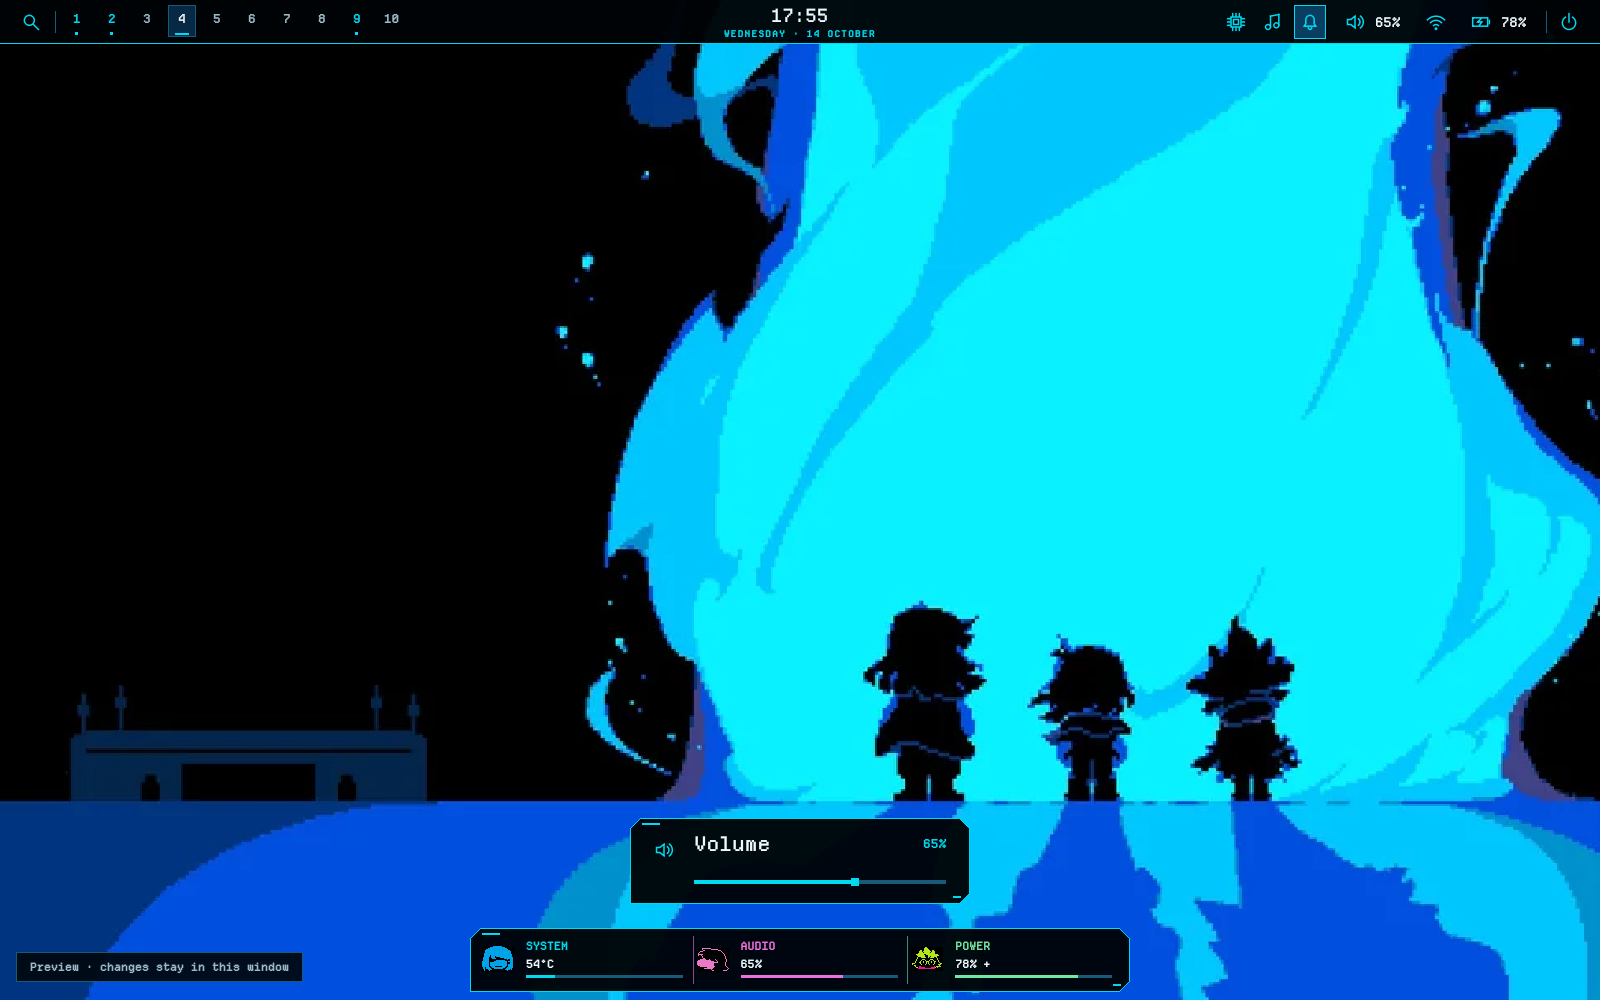
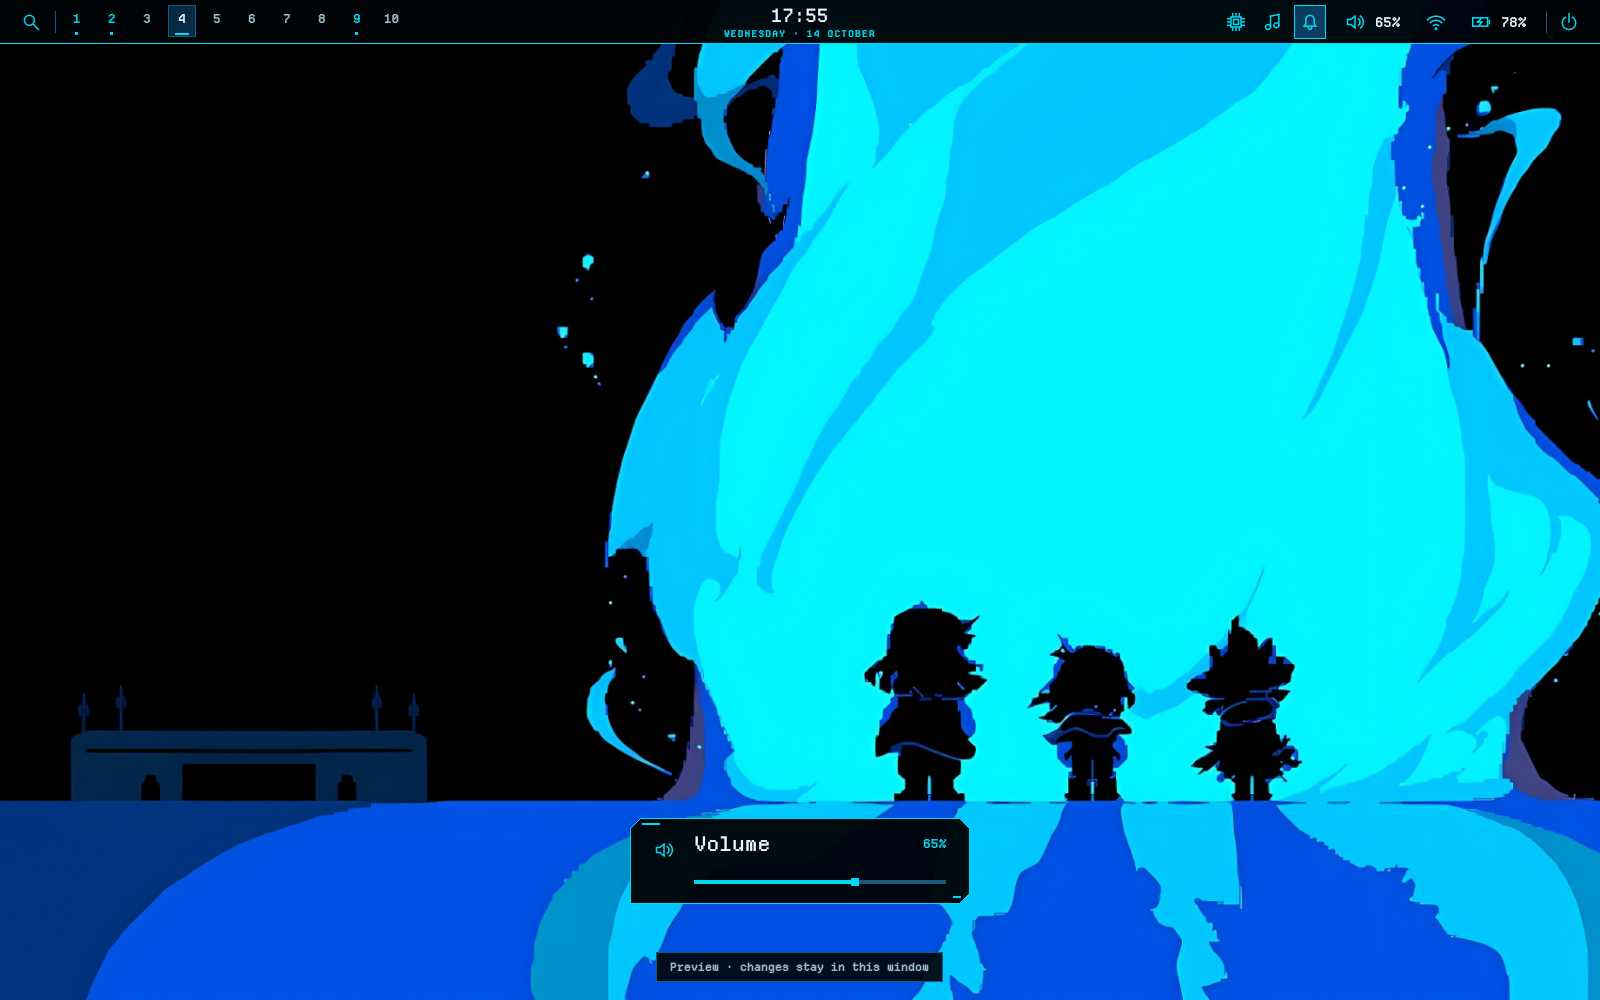
Move Deltarune controls right remove the bottom strip and replace wallpaper

diff --git a/themes/deltarune/files/style/shell/ui/PartyStrip.qml b/themes/deltarune/files/style/shell/ui/PartyStrip.qml
@@ -1,50 +1,7 @@
 import QtQuick
-import QtQuick.Controls
-OrnamentFrame {
-    id:root
-    objectName:"partyStrip"
+// Optional presentation surface. The baseline theme does not show a second bar.
+Item {
     required property var backend
     required property var uiState
     property string screenToken:""
-    readonly property var cpu:backend.hardware || ({})
-    readonly property var cells:[
-        {name:"SYSTEM",portrait:Theme.kris,ink:Theme.brass,panel:"hardware",
-         value:typeof cpu.cpuTemp==="number" && isFinite(cpu.cpuTemp) ? Math.round(cpu.cpuTemp)+"°C" : "TEMP —",
-         level:typeof cpu.cpuUsage==="number" ? cpu.cpuUsage : 0},
-        {name:"AUDIO",portrait:Theme.susie,ink:Theme.partyPink,panel:"controls",
-         value:!backend.audioAvailable ? "OFFLINE" : backend.muted ? "MUTED" : backend.volume+"%",
-         level:backend.audioAvailable && !backend.muted ? backend.volume : 0},
-        {name:"POWER",portrait:Theme.ralsei,ink:Theme.partyGreen,panel:"controls",
-         value:backend.battery<0 ? "AC" : backend.battery+"%"+(backend.batteryCharging ? " +" : ""),
-         level:backend.battery<0 ? 0 : backend.battery}
-    ]
-    Row {
-        anchors.fill:parent;anchors.margins:8
-        Repeater {
-            model:root.cells
-            delegate:AbstractButton {
-                id:cell
-                required property var modelData
-                required property int index
-                objectName:"partyCell-"+index
-                width:(root.width-16)/3;height:root.height-16
-                hoverEnabled:true;activeFocusOnTab:true
-                Accessible.name:modelData.name+" "+modelData.value
-                background:Rectangle {color:cell.hovered || cell.activeFocus ? Theme.raised : "transparent"}
-                contentItem:Item {
-                    Image {x:4;anchors.verticalCenter:parent.verticalCenter;width:32;height:32;smooth:false;fillMode:Image.PreserveAspectFit;source:cell.modelData.portrait;visible:cell.width>=150}
-                    Column {
-                        x:cell.width>=150 ? 48 : 7;y:3;width:parent.width-x-10;spacing:4
-                        Text {width:parent.width;text:cell.modelData.name;color:cell.modelData.ink;font.family:Theme.bodyFont;font.pixelSize:Theme.fontSize(11);elide:Text.ElideRight}
-                        Text {objectName:"partyValue-"+cell.index;width:parent.width;text:cell.modelData.value;color:Theme.ink;font.family:Theme.bodyFont;font.pixelSize:Theme.fontSize(11);elide:Text.ElideRight}
-                        Rectangle {width:parent.width;height:3;color:Theme.line
-                            Rectangle {width:parent.width*Math.max(0,Math.min(100,cell.modelData.level))/100;height:3;color:cell.modelData.ink}
-                        }
-                    }
-                    Rectangle {visible:cell.index>0;width:1;height:parent.height;x:0;color:cell.modelData.ink;opacity:.6}
-                }
-                onClicked:root.uiState.toggle(modelData.panel,root.screenToken)
-            }
-        }
-    }
 }

diff --git a/themes/deltarune/files/style/shell/ui/Overlay.qml b/themes/deltarune/files/style/shell/ui/Overlay.qml
@@ -13,7 +13,7 @@ FocusScope {
         readonly property bool centered:SurfaceLayout.panelCentered(uiState.activePanel,Theme.preferences.centerPanels)
         width:SurfaceLayout.panelWidth(uiState.activePanel,root.width)
         height:SurfaceLayout.panelHeight(uiState.activePanel,root.height,uiState.confirmation,Theme.fontScale)
-        x:centered ? (root.width-width)/2 : SurfaceLayout.panelSideMargin
+        x:centered ? (root.width-width)/2 : uiState.activePanel==="controls" ? root.width-width-SurfaceLayout.panelSideMargin : SurfaceLayout.panelSideMargin
         y:centered ? (root.height-height)/2 : SurfaceLayout.panelTop
         MouseArea { anchors.fill:parent }
         Loader {

diff --git a/themes/deltarune/files/style/shell/ui/Theme.qml b/themes/deltarune/files/style/shell/ui/Theme.qml
@@ -3,7 +3,7 @@ import QtQuick
 import "../logic/Preferences.js" as Preferences
 QtObject {
     property var preferences:Preferences.defaults()
-    readonly property bool partyStripEnabled:true
+    readonly property bool partyStripEnabled:false
     readonly property real fontScale:preferences.fontScale
     readonly property bool reduceMotion:preferences.reduceMotion
     function fontSize(pixels) {return Math.max(9,Math.round(pixels*fontScale));}

diff --git a/checks/test_deltarune.py b/checks/test_deltarune.py
@@ -1,4 +1,4 @@
-"""Run the existing interaction contract against a staged skin, plus its optional strip.
+"""Run the existing interaction contract against a staged skin, plus the current panel/wallpaper revisions.
 
 Qt offscreen only. Does not install, run QuickShell, or contact the user's session.
 """
@@ -14,33 +14,37 @@ import theme_preview
 import test_preferences_ui as qt
 
 
-class PartyStripTests(qt.PreferenceUiTests):
-    def setUp(self):
-        super().setUp()
-        self.js('uiState.close()')
+class DeltaruneRevisionTests(qt.PreferenceUiTests):
+    def test_controls_right_launcher_left_and_center_preference_preserved(self):
+        self.change('reduceMotion', True)
+        self.change('centerPanels', False)
+        for width,height in [(1600,1000),(900,600),(640,480)]:
+            self.view.resize(width,height)
+            for panel in ['launcher','controls']:
+                self.js('uiState.close();uiState.toggle("'+panel+'","preview")')
+                qt.QTest.qWait(20)
+                frame=qt.visual_child(self.root,'activePanelFrame')
+                expected=width-frame.width()-16 if panel=='controls' else 16
+                self.assertAlmostEqual(frame.x(),expected)
+                self.assertGreaterEqual(frame.x(),0)
+                self.assertLessEqual(frame.x()+frame.width(),width)
+        self.change('centerPanels', True)
+        qt.QTest.qWait(20)
+        self.assertAlmostEqual(frame.x(),(self.view.width()-frame.width())/2)
 
-    def test_live_values_missing_sensors_mute_and_charging(self):
-        self.js('backend.hardware={};backend.audioAvailable=false;backend.battery=-1')
-        qt.QTest.qWait(10)
-        for index, value in enumerate(['TEMP —', 'OFFLINE', 'AC']):
-            self.assertEqual(qt.visual_child(self.root, 'partyValue-'+str(index)).property('text'), value)
-        self.js('backend.hardware={cpuTemp:0,cpuUsage:0};backend.audioAvailable=true;backend.muted=true;backend.battery=42;backend.batteryCharging=true')
-        qt.QTest.qWait(10)
-        for index, value in enumerate(['0°C', 'MUTED', '42% +']):
-            self.assertEqual(qt.visual_child(self.root, 'partyValue-'+str(index)).property('text'), value)
-        self.js('backend.hardware={cpuTemp:null};backend.batteryCharging=false;backend.muted=false;backend.volume=73')
-        qt.QTest.qWait(10)
-        for index, value in enumerate(['TEMP —', '73%', '42%']):
-            self.assertEqual(qt.visual_child(self.root, 'partyValue-'+str(index)).property('text'), value)
-
-    def test_party_buttons_toggle_existing_panels_and_font_loads(self):
-        self.click('partyCell-0'); self.assertEqual(self.js('uiState.activePanel'), 'hardware')
-        self.js('uiState.close()')
-        self.click('partyCell-1'); self.assertEqual(self.js('uiState.activePanel'), 'controls')
-        panel=self.root.findChild(qt.QObject,'activePanelFrame')
-        self.assertEqual(qt.evaluate(panel,'Theme.loadedFont.status'),1)
-        self.assertIn('Departure',qt.evaluate(panel,'Theme.bodyFont'))
-
+    def test_bottom_strip_removed_font_and_wallpaper_preserved(self):
+        from PySide6.QtGui import QImage
+        self.js('uiState.close();uiState.toggle("launcher","preview")')
+        qt.QTest.qWait(30)
+        self.assertIsNone(qt.visual_child(self.root,'partyStrip'))
+        frame=qt.visual_child(self.root,'activePanelFrame')
+        self.assertFalse(qt.evaluate(frame,'Theme.partyStripEnabled'))
+        self.assertEqual(qt.evaluate(frame,'Theme.loadedFont.status'),1)
+        self.assertIn('Departure',qt.evaluate(frame,'Theme.bodyFont'))
+        source=QImage(str(ROOT/'themes/deltarune/wallpaper-source.jpeg'))
+        wallpaper=QImage(str(qt.ROOT/'payload/style/wallpaper.png'))
+        self.assertEqual((wallpaper.width(),wallpaper.height()),(2048,1151))
+        self.assertEqual(source.convertToFormat(QImage.Format_RGBA8888),wallpaper.convertToFormat(QImage.Format_RGBA8888))
 
 
 def main():
@@ -59,9 +63,9 @@ def main():
             result=unittest.TextTestRunner(verbosity=1).run(suite);passed=passed and result.wasSuccessful()
         qt.qInstallMessageHandler(lambda kind,context,message:qt.WARNINGS.append(message))
         # Load only new checks; inherited settings cases have already run above.
-        suite=unittest.TestSuite(PartyStripTests(name) for name in [
-            'test_live_values_missing_sensors_mute_and_charging',
-            'test_party_buttons_toggle_existing_panels_and_font_loads'])
+        suite=unittest.TestSuite(DeltaruneRevisionTests(name) for name in [
+            'test_controls_right_launcher_left_and_center_preference_preserved',
+            'test_bottom_strip_removed_font_and_wallpaper_preserved'])
         result=unittest.TextTestRunner(verbosity=1).run(suite);passed=passed and result.wasSuccessful()
     return 0 if passed else 1
 

diff --git a/docs/DELTARUNE.md b/docs/DELTARUNE.md
@@ -1,4 +1,4 @@
-# Deltarune — ilk kullanım denemesi (2.8.0)
+# Deltarune — kullanım denemesi (paket 0.1.1)
 
 18 Ekim 2026: kullanıcının seçtiği arka plan ve onayladığı son referans temel
 alındı. Bu, son kabul edilmiş ikinci tema değil; kullanıp revize edilecek sürüm.
@@ -47,12 +47,11 @@ bash theme.sh check plague-tale && bash theme.sh apply plague-tale
 
 ## Bu denemede neler var?
 
-- Seçilen görselin piksel eşitliği korunmuş PNG kopyası; yeniden çizim yok.
+- Kullanıcının yeni images_upscaled.jpeg görseli; 2048×1151 tam boyutlu PNG.
 - Siyah/camgöbeği kesik köşeler, Departure Mono fontu, gerçek oyun menü portreleri.
 - Mevcut bütün shell menüleri, Alt+Tab, bildirimler, ayarlar ve sürüklenebilir OSD.
-- Solda launcher/yan paneller. Merkez panel tercihin açıksa öncelik ona aittir.
-- Alt şerit: CPU sıcaklığı/yük, ses/mute, pil/şarj. SYSTEM donanımı, AUDIO/POWER
-  kontrol panelini açar. Ekran başına 80 mantıksal piksel alan ayırır.
+- Arama önceki sol konumunda; kontrol menüsü sağda. Merkez panel tercihin
+  açıksa öncelik ona aittir. Alt parti şeridi ve ayırdığı alan kaldırıldı.
 - Kitty renkleri ve Hyprlock medya renk/düğmeleri. Terminal başlangıcı değiştirilmez.
 
 Super+R tekrar basınca kapanır. Super+M oturum menüsü, Super+T donanım,
@@ -62,12 +61,12 @@ Bu ilk paket SDDM, Dolphin, Spotify veya terminal madalyonuna Deltarune adaptör
 kurmaz. Hyprlock parola/saat sunumu da önceki ortak kurulumdadır. Bu alanlar
 ikinci temanın sonraki revizyonları; bunların tamamlandığı iddia edilmez.
 
-Sensör okuma bu temada iki saniyede bir devam eder; mevcut uyuyan GPU koruması
-korunur. Sensör/pil/aygıt yoksa uydurma değer yerine TEMP — / AC / OFFLINE görünür.
+Donanım sensörleri yalnız Super+T paneli açıkken iki saniyede bir okunur;
+mevcut uyuyan GPU koruması korunur. Veriler üst bardan veya ilgili panelden izlenir.
 
 ## Önizlemeler ve sınır
 
-[Medya](../previews/deltarune/media.png) · [OSD](../previews/deltarune/osd.png) ·
+[Kontrol menüsü](../previews/deltarune/controls.png) · [Medya](../previews/deltarune/media.png) · [OSD](../previews/deltarune/osd.png) ·
 [Alt+Tab](../previews/deltarune/switcher.png). Bunlar Qt 6.10.2 DemoContext
 render'larıdır; gerçek Wayland, Steam, PAM, Spotify veya fiziksel sensör kabulü
 değildir. Fotoğraflı tema kartı için gerçek render metadata'ya kaydedildi;
@@ -87,3 +86,14 @@ bash theme.sh check deltarune && bash theme.sh apply deltarune
 Başarılı source update'i tekrarlamak veya restore çalıştırmak gerekmez. Gerçek
 sürüm okunamazsa hata artık elde edilen çıktıyı da gösterir. Kullanıcının bu
 logdaki kesin QuickShell sürümü bilinmiyor; yeni sürümde native kabul bekliyor.
+
+
+### Aktif Deltarune'u 0.1.1'e güncellemek
+
+```bash
+git pull --ff-only
+bash theme.sh check deltarune && bash theme.sh apply deltarune
+```
+
+Aynı ABI korunur; source update veya restore gerekmez. Wallpaper içerik hash'li
+cache yolundan değişir. Önceki görünüme normal theme rollback ile dönülebilir.

diff --git a/STATUS.md b/STATUS.md
@@ -1,6 +1,6 @@
 # Güncel durum
 
-Son inceleme: **2026-10-18**. Kaynak taban: **2.8.0 — ilk Deltarune denemesi**.
+Son inceleme: **2026-10-18**. Kaynak taban: **2.8.0 / Deltarune 0.1.1**.
 Aşama: **Plague Tale ürün/kullanım kapanışı onaylandı; Deltarune ilk paket uygulandı / hedef oturum kabulü bekliyor**. Genel yayın/lisans ve geniş dağıtım matrisi ayrı açık iş olarak kalır.
 Bu kayıt uygulamaları kullanıcının cihazında çalıştırmış gibi yorumlanamaz.
 
@@ -22,7 +22,29 @@ seçicinin uygulanması veya ikinci temanın başlaması değildir. O mesaj nati
 aşağıdaki daha yeni kullanıcı onayı bu bekleme durumunun yerine geçer. Yalnız gereksinim belgeleri güncellendi;
 yerel Markdown dosya bağlantıları ve `git diff --check` geçti, runtime değişmedi.
 
-## 2.8.0 — Deltarune ilk deneme
+## Deltarune 0.1.1 — ilk kullanıcı revizyonu
+
+18 Ekim 14:50 Europe/Riga: kullanıcı canlı Deltarune masaüstü ekran görüntüsü
+paylaştı ve üç revizyon istedi. Bu, paketin hedef oturumda açıldığını gösterir;
+bütün işlevlerin veya yeni düzenin son kabulü değildir.
+
+- Kontrol menüsü sağda; arama önceki sol konumunda. Mevcut merkez panel tercihi
+  açıkça değiştirilmez; açıksa merkez önceliği korunur.
+- Alttaki parti şeridi ve onun 80 piksel exclusive zone'u kaldırıldı. Ortak
+  opsiyonel pencere sözleşmesi yerinde; Deltarune view'ı boş ve flag false.
+  Sürekli sensör izleme de kapanır, yalnız Super+T donanım paneli açıkken sürer.
+- Wallpaper, shell ve lock medya fallback'ı kullanıcının **images_upscaled.jpeg**
+  dosyasından 2048×1151 PNG'ye dönüştürüldü. JPEG'in çözümlenen pikselleriyle
+  eşitlik denetlendi; resize veya ikinci üretim yapılmadı. Kaynak JPEG saklandı.
+  Görüntü cache'i içeriğe bağlı yeni yoldan yenilenir.
+
+Ortak shell/ABI değişmedi; aktif Deltarune üstüne `git pull --ff-only`, sonra
+`theme.sh check/apply deltarune` yeterli. Source update/restore gerekmez.
+42 Qt + 31 core test geçti; yeni iki Qt kontrolü sağ/sol konum, merkez tercih,
+şeridin yokluğu ve wallpaper/font yüklemesini doğrular. Yeni native revizyonun
+kullanıcı kontrolü bekleniyor. [Rehber](docs/DELTARUNE.md).
+
+## 2.8.0 — Deltarune ilk deneme (önceki kayıt)
 
 18 Ekim 14:38 kullanıcı logu: kaynak update/check ve QML kontrolü başarılı;
 `theme.sh check deltarune` aşırı dar QuickShell sürüm koşulunda durdu. Tema apply

diff --git a/docs/FEATURE_CONTRACT.md b/docs/FEATURE_CONTRACT.md
@@ -152,14 +152,13 @@ bu, bir temanın özelliği unuttuğu anlamına gelmez.
 ## Deltarune — 18 Ekim 2026
 
 - Aynı Super+R/M/T/B/Q/E/L ve Alt+Tab eylemleri, toggle ve hesaplama anlamı sürer.
-- Ek parti durum şeridi SYSTEM → mevcut donanım, AUDIO/POWER → mevcut kontrol
-  panelini açar. Yeni global kısayol veya iş komutu tanımlamaz.
-- Sıcaklık yoksa TEMP —, ses aygıtı yoksa OFFLINE, pil yoksa AC; sahte değer yoktur.
-  Sessiz/şarj durumu metinle de anlaşılır. Şerit üç hücreyi dar genişlikte de korur.
+- 18 Ekim kullanıcı revizyonu: alt parti şeridi yoktur ve altta alan ayırmaz.
+  Donanım/ses/pil özellikleri Super+T ve mevcut üst bar/kontrol menüsünde korunur.
+- Kontrol menüsü sağda, arama önceki sol konumundadır. Merkez panel kullanıcı
+  tercihi açıksa önceliği korunur; kayıtlı tercih dosyası değiştirilmez.
+- Wallpaper yeni kullanıcı JPEG'inin tam 2048×1151 boyutlu kayıpsız PNG kopyasıdır.
 - Tema font/renk/kenar/yerleşim sağlar; preferences/kısayollar/bildirim durumu
-  ortak kalır. Kullanıcının merkez panel tercihi varsayılan sol yerleşimin önündedir.
-- Native alt şerit Top katmanında 80 mantıksal piksel ayırır; kullanıcı ekran
-  çözünürlüğü/ölçeği/VRR veya GPU ayarı yeniden yazılmaz.
+  ortak kalır. Kullanıcının çözünürlük/ölçek/VRR/GPU ayarı yeniden yazılmaz.
 
 - 18 Ekim sürüm gate düzeltmesi: kurucu ve tema geçişi aynı minimum QuickShell
   0.3.1 kuralını kullanır. Kaynak referans sürümü tam eşitlik kilidi değildir;

diff --git a/ROADMAP.md b/ROADMAP.md
@@ -181,11 +181,12 @@ bir sonraki temanın bunlardan biri olacağı kararlaştırılmadı.
 ## M6 — Deltarune ilk deneme — uygulandı / kullanıcı kabulü bekliyor
 
 18 Ekim kullanıcı ikinci temanın geliştirilmesini başlattı. Seçilen wallpaper,
-siyah/camgöbeği piksel dil, üç karakter portreleri ve gerçek değerli parti şeridi
-ilk pakette var. Ortak launcher/hesaplama/Alt+Tab/tray/OSD/ayar sözleşmesi korunur.
+siyah/camgöbeği piksel dil ve karakter portreleri ilk pakette var. 18 Ekim ilk
+revizyonda kullanıcı parti şeridini kaldırdı; kontrol menüsü sağa taşındı ve
+yeni images_upscaled.jpeg wallpaper kullanıldı. Ortak launcher/hesaplama/Alt+Tab/tray/OSD/ayar sözleşmesi korunur.
 
 1. Kullanıcı gerçek oturumda paketi deneyip görsel ve kullanım revizyonlarını verir.
-2. Bu sonuçla panel ölçüleri, şerit ve fontun 1.6 ölçekteki görünümü cilalanır.
+2. Bu sonuçla panel ölçüleri ve fontun 1.6 ölçekteki görünümü cilalanır.
 3. Lock parola/saat sunumu, SDDM, Dolphin/Spotify ve terminal madalyonu için ayrı
    görsel adaptasyon tamamlanır. Mevcut uygulama kurulumu sessizce değiştirilmez.
 4. Tema seçicinin yerini kullanıcı belirler; gerçek Qt önizlemesi metadata'da hazır.

diff --git a/docs/VALIDATION.md b/docs/VALIDATION.md
@@ -417,3 +417,17 @@ kontrollü preflight üzerinden denetler. İlk fixture stderr varyantında Hyprl
 çıktısını da stderr'e taşıdı; yalnız QuickShell çıktısı değişecek şekilde
 fixture düzeltildi ve suite yeniden geçti. Native Quickshell çalıştırılmadı;
 kullanıcının asıl sürümü verilmedi, aday tema check/apply kabulü hâlâ bekleniyor.
+
+
+### 18 Ekim — Deltarune 0.1.1 düzen ve wallpaper
+
+`python3 checks/test_theme_core.py`: 31 geçti. `python3 checks/test_deltarune.py`:
+42 geçti (10 ayar, 12 UI, 7 calculator, 11 Alt+Tab, 2 revizyon).
+Önceki şerit testlerinin yerine 1600/900/640 genişlikte kontrol sağ/arama sol,
+merkez tercih, görünür alt şeridin yokluğu, font ve 2048×1151 PNG'nin repo JPEG'iyle
+decode piksel eşitliği denetlendi. Source ABI değişmedi; mevcut native opsiyonel
+pencere/izleme koşulu flag false ile kapanır. Native ekran reserve/konum sonucu
+bu revizyon için kullanıcı kabulünü bekliyor.
+
+Launcher ve controls/media/osd/switcher Qt önizlemeleri taze süreçlerde yenilendi.
+Native Hyprland oturumu ve fiziksel wallpaper IPC burada çalıştırılmadı.

diff --git a/docs/ASSETS_AND_LICENSES.md b/docs/ASSETS_AND_LICENSES.md
@@ -51,3 +51,13 @@ kaynak eşitliğini doğrular; bu kayıt yeni lisans veya üçüncü taraf hak d
   PNG düğmeler paket yanındaki SVG kaynaklarının Qt render'larıdır.
 - `themes/deltarune/preview.png` ve `previews/deltarune/` gerçek Qt DemoContext
   render'larıdır; konsept üretim görseli ürün ekran görüntüsü diye kullanılmadı.
+
+
+### Deltarune 0.1.1 wallpaper değişimi
+
+18 Ekim: kullanıcı ilk wallpaper kalitesini yetersiz bulup **images_upscaled.jpeg**
+sağladı. Tam 2048×1151 kaynak `themes/deltarune/wallpaper-source.jpeg` içinde
[1 lines of base64/hex data omitted]
+Üç runtime PNG kopyası Qt ile format dönüştürüldü; decode edilmiş RGBA pikselleri
+kaynağa eşit. Ek upscale, yeniden çizim veya yeniden JPEG sıkıştırması yapılmadı.
+Preview PNG'leri yeni wallpaper ve şeritsiz düzenle yeniden Qt'den render edildi.

diff --git a/docs/decisions/0013-deltarune-first-trial.md b/docs/decisions/0013-deltarune-first-trial.md
@@ -36,3 +36,13 @@ lock parola/saat ve terminal madalyonu adaptasyonları takip eden revizyonda.
 sözleşmesi staged Deltarune'da yeniden koşuldu; ek testler yeni şerit veri ve
 panel bağlantısını, dosya testi tema özel font/portrelerin dönüşünü denetler.
 Offscreen test native Wayland kabulü değildir. [Kullanım](../DELTARUNE.md).
+
+
+## 18 Ekim 14:50 — Kullanıcı revizyonu
+
+Kullanıcı canlı temayı görüp alt parti şeridini kaldırdı, kontrol menüsünü sağda
+istedi ve daha yüksek boyutlu images_upscaled.jpeg sağladı. Deltarune 0.1.1'de
+flag false/view boş; alt reserve ve sürekli sensör okuma yok. Arama yerinde
+korunur. Wallpaper tam 2048×1151 dönüştürülür. Ortak opsiyonel sözleşme/ABI aynı;
+aktif paket üstüne check/apply ile güncellenir. Önceki şerit kararı güncel ürün
+zorunluluğu değildir. Bu revizyonun native görsel kabulü beklenir.

diff --git a/checks/README.md b/checks/README.md
@@ -194,7 +194,7 @@ python3 checks/render_theme.py deltarune /tmp/deltarune-preview.png --panel medi
 ```
 
 İkinci komut PySide6 gerektirir ve mevcut etkileşim testlerini geçici Deltarune
-köküne yönlendirir: 42 Qt testi. Yeni şerit testleri unavailable/0°C/mute/şarj,
-font yükleme ve mevcut panel toggle bağlantısını denetler. Render komutu her yüzey
+köküne yönlendirir: 42 Qt testi. 0.1.1 revizyon kontrolleri sağ kontrol/sol arama ve merkez tercihi,
+alt şeridin yokluğu, font ve wallpaper decode piksel eşitliğini denetler. Render komutu her yüzey
 için taze süreçte gerçek QML ekran görüntüsü üretir; native Quickshell çalıştırmaz.
-MCT_QT_TEST_PATH desteklenir. Core suite 29 stdlib/fake-runtime testidir.
+MCT_QT_TEST_PATH desteklenir. Core suite sürüm gate kontrolleriyle 31 stdlib/fake-runtime testidir.
